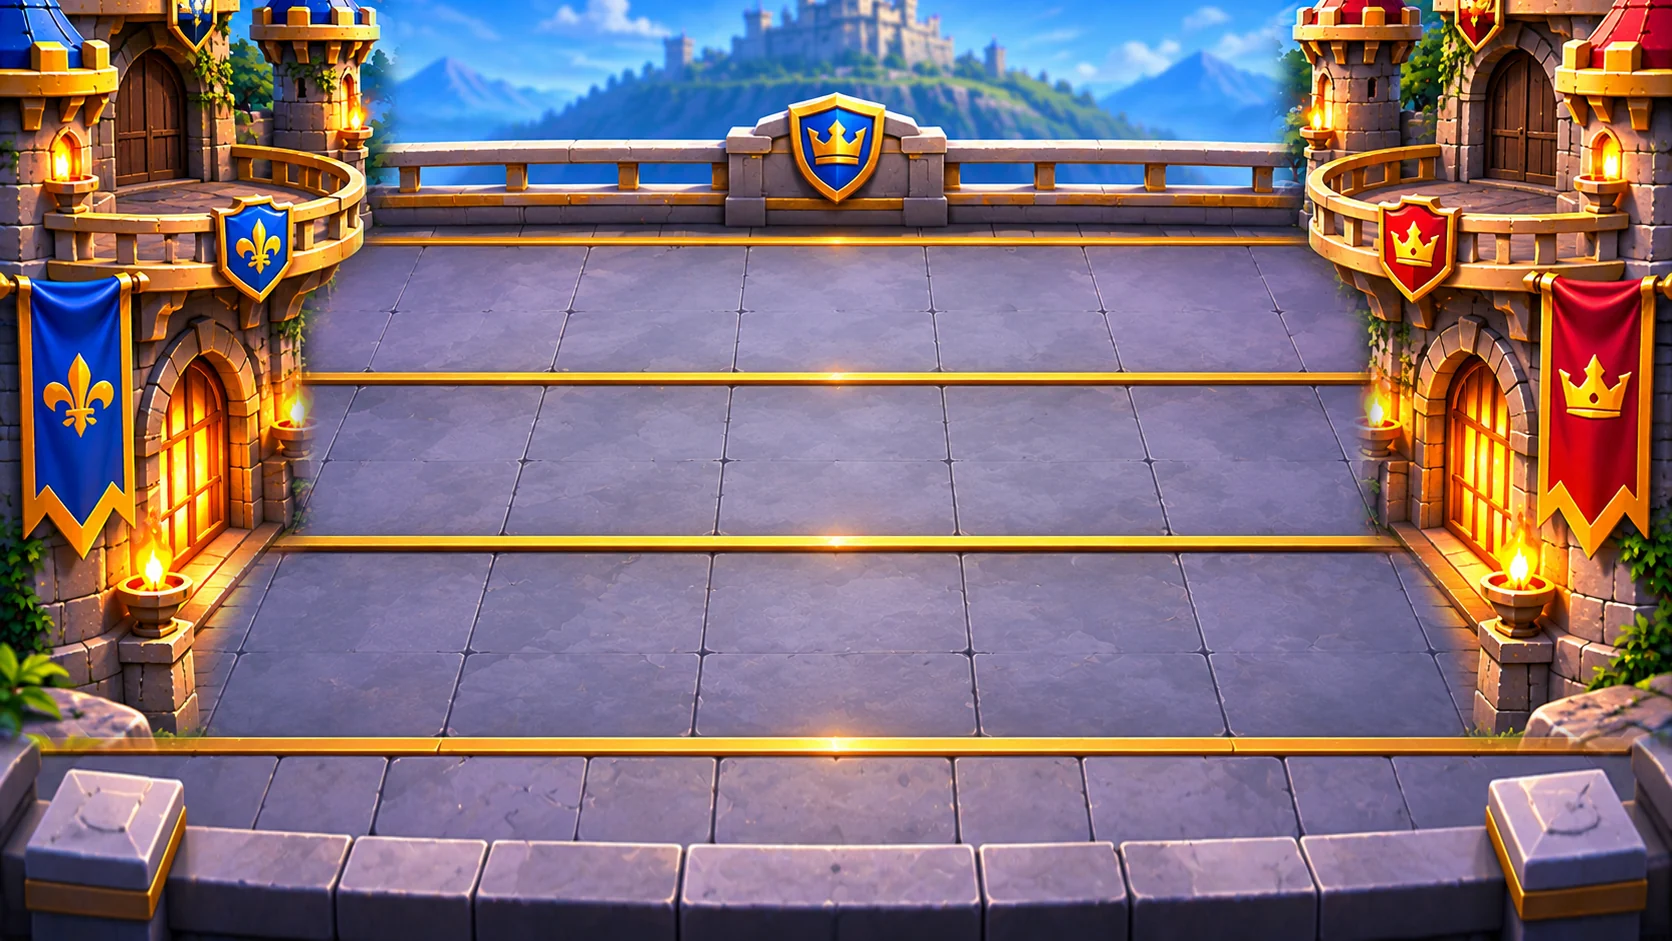
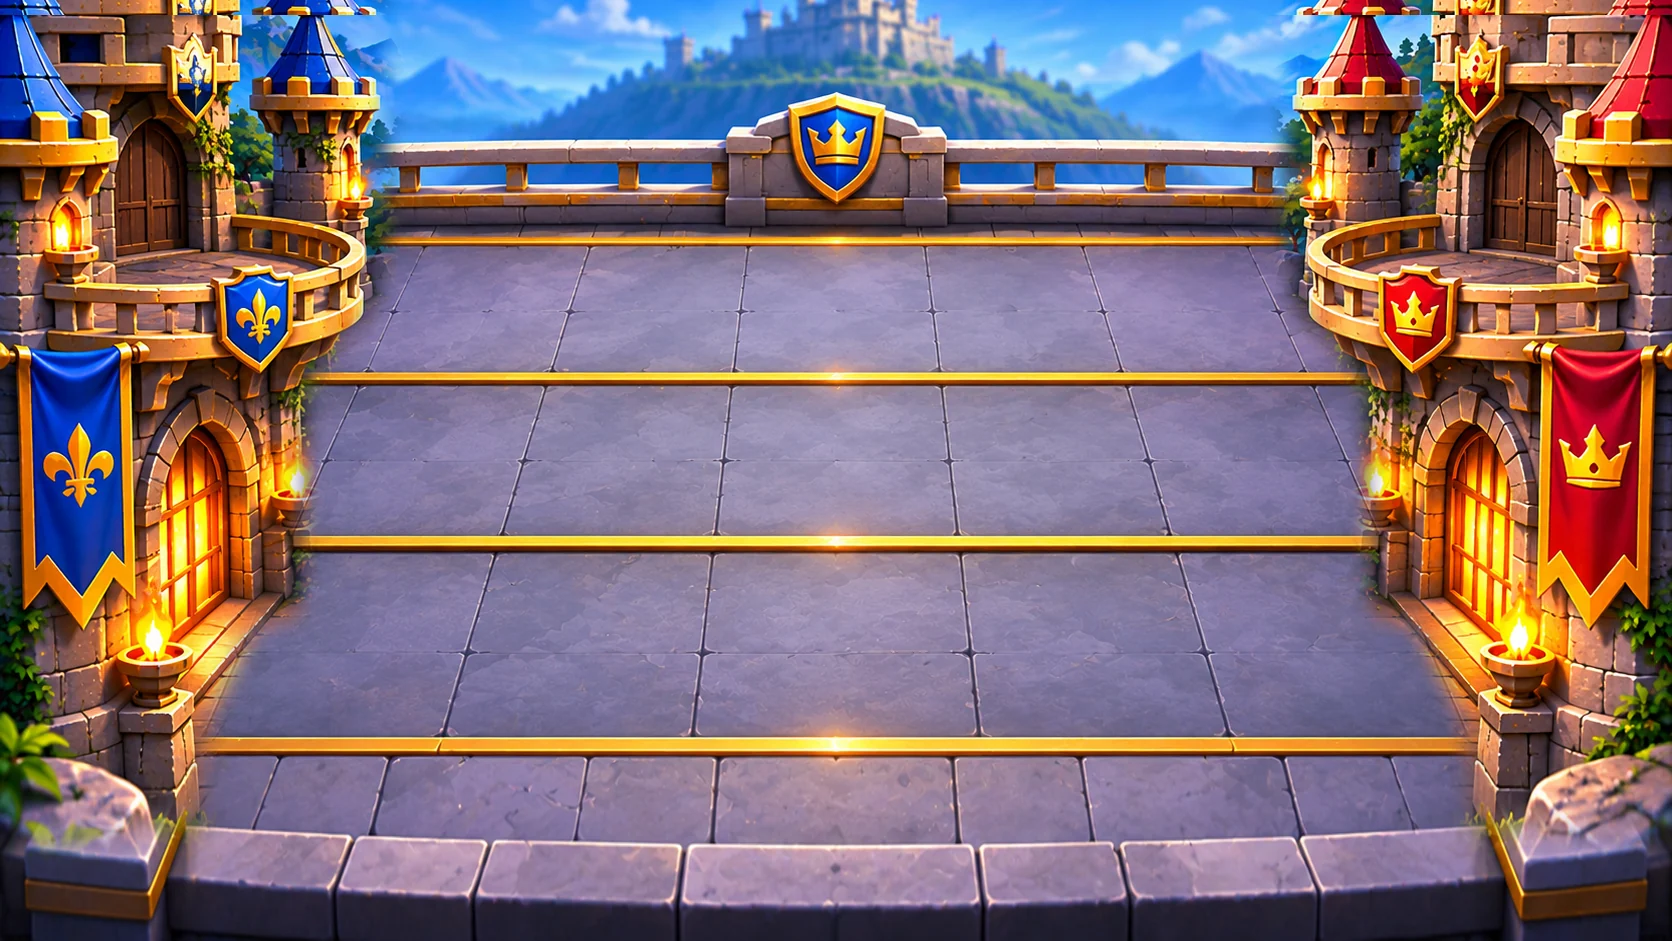
Invocação livre até a tropa mais avançada, mana acelerando, sacada mais baixa e poderes em círculo
- Soltar a carta onde quiser: limite = sua tropa mais avançada em qualquer rota
  (até o meio); com inimigo mais avançado na rota, a criatura nasce na frente dele
- A prévia transparente segue o dedo e mostra o ponto exato
- Mana enche cada vez mais rápido (+50% até 2 min) e em dobro no último minuto
- Castelos 70 px mais baixos (tools/compose-arena.py): Barão bem visível na sacada
- Poderes do Barão e do castelo em círculos lado a lado: cinza com o contorno
  carregando, coloridos e piscando quando prontos; segurar mostra a descrição
- 42 testes

Claude-Session: https://claude.ai/code/session_019FHBnxKyTVWzaJqkftQpoS

diff --git a/web/js/battle.js b/web/js/battle.js
@@ -91,22 +91,13 @@
         <div class="hb-score me" data-r="598,8,766,78"><b>👑</b><span id="crownMe">0</span></div>
         <div class="hb-timer" data-r="764,8,910,78" id="timer">3:00</div>
         <div class="hb-score foe" data-r="908,8,1078,78"><span id="crownFoe">0</span><b>👑</b></div>
-        <button class="hb-btn big tap" data-r="1088,14,1146,70" id="emoteBtn">😃</button>
-        <button class="hb-btn auto tap" data-r="1152,14,1238,70" id="autoBtn">${T('battle.auto')}</button>
-        <div class="hb-emotes tap hidden" data-r="900,82,1238,152" id="emotes">${['👍', '😃', '😠', '😱', '👑'].map((e) => `<button data-e="${e}">${e}</button>`).join('')}</div>
+        <button class="hb-orb tap" data-r="22,770,172,920" id="baronBtn"><img src="${BB.art.baronUrl(me.baron.id)}"></button>
+        <button class="hb-orb castle tap" data-r="182,770,332,920" id="castleBtn"><span>${CASTLE_ICON[me.castle.ability] || '🏰'}</span></button>
+        <div class="hb-tip hidden" data-r="22,580,560,760" id="tip"></div>
+        <button class="hb-btn big tap" data-r="1350,800,1440,880" id="emoteBtn">😃</button>
+        <button class="hb-btn auto tap" data-r="1452,800,1640,880" id="autoBtn">⚔ ${T('battle.auto')}</button>
+        <div class="hb-emotes tap hidden" data-r="1290,706,1640,790" id="emotes">${['👍', '😃', '😠', '😱', '👑'].map((e) => `<button data-e="${e}">${e}</button>`).join('')}</div>
         <div class="hb-x2 hidden" data-r="690,84,986,116" id="x2">${T('battle.double_energy')}</div>
-
-        <button class="hb-power tap" data-r="10,752,330,936" id="baronBtn">
-          <img class="hb-icon" data-r="18,762,118,862" src="${BB.art.baronUrl(me.baron.id)}">
-          <div class="hb-pt" data-r="126,764,324,796">${T('baron.' + me.baron.id + '.ability')}</div>
-          <div class="hb-pd" data-r="126,798,324,868">${T('baron.' + me.baron.id + '.desc')}</div>
-          <div class="hb-bar" data-r="22,880,318,914"><i id="baronFill"></i><span id="baronState"></span></div></button>
-        <button class="hb-power castle tap" data-r="1342,752,1662,936" id="castleBtn">
-          <div class="hb-icon castle" data-r="1350,762,1450,862">${CASTLE_ICON[me.castle.ability] || '🏰'}</div>
-          <div class="hb-ph" data-r="1458,764,1656,790">${T('battle.castle_power')}</div>
-          <div class="hb-pt" data-r="1458,790,1656,820">${T('castle.' + me.castle.id + '.ability')}</div>
-          <div class="hb-pd" data-r="1458,820,1656,872">${T('castle.' + me.castle.id + '.desc')}</div>
-          <div class="hb-bar" data-r="1354,880,1650,914"><i id="castleFill"></i><span id="castleState"></span></div></button>
 
         <div class="hb-tray" data-r="338,744,1334,941"></div>
         <button class="hb-trash tap" data-r="346,770,420,872" id="trash">🗑</button>
@@ -115,19 +106,19 @@
         <div class="hb-enum" data-r="352,880,418,941" id="energyNum">1</div>
         <div class="hb-max" data-r="428,903,700,925" id="energyMax"></div>
         <div class="hb-ebar" data-r="704,908,1192,932" id="ebar"><i id="energyFill"></i><u id="energyCap"></u>${'<b></b>'.repeat(9)}</div>
-        <div class="hb-bubble hidden" data-r="270,110,380,185" id="bubbleMe"></div>
-        <div class="hb-bubble foe hidden" data-r="1292,110,1402,185" id="bubbleFoe"></div>
+        <div class="hb-bubble hidden" data-r="290,150,400,225" id="bubbleMe"></div>
+        <div class="hb-bubble foe hidden" data-r="1272,150,1382,225" id="bubbleFoe"></div>
         <div class="hb-hint" data-r="436,120,1236,170" id="hint"></div>`;
       this.el = {
         hpMe: $('#hpMe'), hpMeT: $('#hpMeT'), hpFoe: $('#hpFoe'), hpFoeT: $('#hpFoeT'), timer: $('#timer'), x2: $('#x2'), offline: $('#offline'),
         crownMe: $('#crownMe'), crownFoe: $('#crownFoe'), ebar: $('#ebar'),
-        baronBtn: $('#baronBtn'), baronFill: $('#baronFill'), baronState: $('#baronState'), castleBtn: $('#castleBtn'), castleFill: $('#castleFill'),
-        castleState: $('#castleState'), slots: [0, 1, 2, 3, 4, 5].map((i) => $('#slot' + i)), drawFill: $('#drawFill'), pileTxt: $('#pileTxt'), energyMax: $('#energyMax'), energyCap: $('#energyCap'), trash: $('#trash'), energyFill: $('#energyFill'), energyNum: $('#energyNum'), hint: $('#hint'),
+        baronBtn: $('#baronBtn'), castleBtn: $('#castleBtn'), tip: $('#tip'),
+        slots: [0, 1, 2, 3, 4, 5].map((i) => $('#slot' + i)), drawFill: $('#drawFill'), pileTxt: $('#pileTxt'), energyMax: $('#energyMax'), energyCap: $('#energyCap'), trash: $('#trash'), energyFill: $('#energyFill'), energyNum: $('#energyNum'), hint: $('#hint'),
         autoBtn: $('#autoBtn'), emotes: $('#emotes'), bubbles: [$('#bubbleMe'), $('#bubbleFoe')],
       };
       $('#pauseBtn').onclick = () => this.pause();
-      this.el.baronBtn.onclick = () => this.powerPressed('baron');
-      this.el.castleBtn.onclick = () => this.powerPressed('castle');
+      this.bindOrb(this.el.baronBtn, 'baron');
+      this.bindOrb(this.el.castleBtn, 'castle');
       $('#emoteBtn').onclick = () => { BB.audio.play('click'); this.el.emotes.classList.toggle('hidden'); };
       this.el.emotes.querySelectorAll('[data-e]').forEach((b) => b.onclick = () => { this.el.emotes.classList.add('hidden'); this.emote(0, b.dataset.e); });
       this.el.autoBtn.onclick = () => this.toggleAuto();
@@ -219,12 +210,10 @@
       el.energyFill.style.width = (me.energy / m.B.maxEnergy) * 100 + '%';
       el.energyNum.textContent = Math.floor(me.energy);
       const bReady = m.baronReady(me), cReady = m.castleReady(me);
-      el.baronFill.style.width = m.baronProgress(me) * 100 + '%';
-      el.baronState.textContent = bReady ? T('battle.ready') : Math.floor(m.baronProgress(me) * 100) + '%';
+      el.baronBtn.style.setProperty('--p', m.baronProgress(me));
       el.baronBtn.classList.toggle('ready', bReady && !m.over);
       el.baronBtn.classList.toggle('armed', this.armed === 'baron');
-      el.castleFill.style.width = m.castleProgress(me) * 100 + '%';
-      el.castleState.textContent = cReady ? T('battle.ready') : Math.ceil(Math.max(0, me.castleCooldown)) + 's';
+      el.castleBtn.style.setProperty('--p', m.castleProgress(me));
       el.castleBtn.classList.toggle('ready', cReady && !m.over);
       el.castleBtn.classList.toggle('armed', this.armed === 'castle');
       this.refreshHand();
@@ -266,6 +255,31 @@
 
     disarm() { this.armed = null; this.sel = -1; this.dragging = false; this.hoverLane = -1; }
 
+    // Círculo de poder: toque rápido usa; segurar mostra a descrição (soltar depois de segurar não usa)
+    bindOrb(btn, kind) {
+      let timer = null, held = false;
+      const me = () => this.match.players[0];
+      const info = () => kind === 'baron'
+        ? { t: T('baron.' + me().baron.id + '.ability'), h: BB.baronName(me().baron.id), d: T('baron.' + me().baron.id + '.desc') }
+        : { t: T('castle.' + me().castle.id + '.ability'), h: T('battle.castle_power'), d: T('castle.' + me().castle.id + '.desc') };
+      btn.addEventListener('pointerdown', (e) => {
+        e.preventDefault(); held = false;
+        timer = setTimeout(() => {
+          held = true; const i = info();
+          this.el.tip.innerHTML = `<small>${esc(i.h)}</small><b>${esc(i.t)}</b><p>${esc(i.d)}</p>`;
+          this.el.tip.classList.remove('hidden');
+        }, 420);
+      });
+      const end = (use) => {
+        clearTimeout(timer);
+        if (held) { this.el.tip.classList.add('hidden'); held = false; return; }
+        if (use) this.powerPressed(kind);
+      };
+      btn.addEventListener('pointerup', () => end(true));
+      btn.addEventListener('pointerleave', () => end(false));
+      btn.addEventListener('pointercancel', () => end(false));
+    }
+
     discardSelected() {
       if (this.armed !== 'card' || this.sel < 0) { BB.ui.toast(T('battle.discard_hint')); return; }
       const me = this.match.players[0];
@@ -277,6 +291,7 @@
     pointerMove(e) {
       if (!this.armed) return;
       this.hoverLane = BB.renderer.laneAt(e.clientX, e.clientY);
+      this.hoverX = this.hoverLane >= 0 ? BB.renderer.simX(this.match, e.clientX, this.hoverLane) : null;
     }
 
     pointerUp(e) {
@@ -287,7 +302,7 @@
       if (e.target.closest && e.target.closest('.tap')) return; // soltou sobre a interface
       const lane = BB.renderer.laneAt(e.clientX, e.clientY);
       if (lane < 0) { if (!wasDrag) this.disarm(); return; }
-      if (this.armed === 'card') this.exec({ type: 'play', player: 0, hand: this.sel, cardId: this.match.players[0].deck.hand[this.sel], lane });
+      if (this.armed === 'card') this.exec({ type: 'play', player: 0, hand: this.sel, cardId: this.match.players[0].deck.hand[this.sel], lane, x: BB.renderer.simX(this.match, e.clientX, lane) });
       else this.exec({ type: this.armed, player: 0, lane });
     }
 
@@ -352,7 +367,7 @@
       let ghost = null;
       if (this.armed === 'card' && this.hoverLane >= 0 && this.sel >= 0) {
         const def = BB.content.cards[m.players[0].deck.hand[this.sel]];
-        if (def && !def.isSpell) ghost = { lane: this.hoverLane, x: m.deployX(0, this.hoverLane), def };
+        if (def && !def.isSpell) ghost = { lane: this.hoverLane, x: m.deployX(0, this.hoverLane, this.hoverX, def), def };
       }
       BB.renderer.draw(m, this.paused ? 0 : dt, { armed: !!this.armed, hoverLane: this.hoverLane, ghost });
       this.refreshHud();

diff --git a/web/js/sim.js b/web/js/sim.js
@@ -143,12 +143,26 @@
     }
     get handMax() { return this.B.handMax || 6; }
     // ponto de invocação: base do castelo, ou a posição da sua tropa mais avançada na rota (até o meio do campo)
-    deployX(owner, lane) {
+    // Ponto de invocação. O jogador escolhe onde soltar (wantX); o limite de avanço é a sua tropa mais
+    // avançada em QUALQUER rota (até o meio do campo). Se houver inimigo mais avançado na rota, a tropa
+    // nasce na frente dele (do lado do seu castelo). Sem wantX: o ponto mais avançado permitido.
+    deployLimit(owner) {
       const base = this.spawnX(owner), dir = dirOf(owner);
-      const f = this.frontUnit(owner, lane);
-      if (f === null) return base;
-      const limit = this.L / 2;
-      return dir > 0 ? Math.max(base, Math.min(f, limit)) : Math.min(base, Math.max(f, limit));
+      let adv = base * dir;
+      for (const u of this.units) if (u.hp > 0 && u.owner === owner) adv = Math.max(adv, u.x * dir);
+      return dir * Math.min(adv, (this.L / 2) * dir);
+    }
+    deployX(owner, lane, wantX, def) {
+      const base = this.spawnX(owner), dir = dirOf(owner), limit = this.deployLimit(owner);
+      let x = typeof wantX === 'number' && isFinite(wantX) ? wantX : limit;
+      x = dir > 0 ? Math.max(base, Math.min(x, limit)) : Math.min(base, Math.max(x, limit));
+      const enemy = this.frontUnit(1 - owner, lane); // inimigo mais avançado (mais perto do seu castelo)
+      if (enemy !== null) {
+        const gap = this.bodyR(def || { hp: 600 }) + 3;
+        const before = enemy - dir * gap;
+        if (dir * (x - before) > 0) x = dir > 0 ? Math.max(base, before) : Math.min(base, before);
+      }
+      return x;
     }
     // raio de corpo (unidades da rota): tropas param de frente para o inimigo sem se atravessarem
     bodyR(def) { return def.flying ? 3 : 2.2 + Math.min(1, (def.hp || 0) / 1800) * 1.6; }
@@ -205,7 +219,7 @@
       const r = this.validate(c);
       if (r !== 'Ok') return r;
       const p = this.players[c.player];
-      if (c.type === 'play') this.playCard(p, c.hand, c.lane);
+      if (c.type === 'play') this.playCard(p, c.hand, c.lane, c.x);
       else if (c.type === 'discard') { const id = p.deck.play(c.hand); this.emit('CardDiscarded', p.index, { id }); }
       else if (c.type === 'baron') this.useBaron(p, c.lane);
       else this.useCastle(p, c.lane);
@@ -215,7 +229,7 @@
     surrender(player) { if (!this.over) this.end(1 - player, 'Surrender'); }
     forfeitByDisconnect(player) { if (!this.over) this.end(1 - player, 'Disconnect'); }
 
-    playCard(p, handIndex, lane) {
+    playCard(p, handIndex, lane, wantX) {
       const id = p.deck.play(handIndex);
       const def = this.content.card(id);
       p.energy -= def.cost;
@@ -224,7 +238,7 @@
       const level = this.level(p, id);
       if (def.isSpell) { p.stats.spellsCast++; this.castSpell(p, def, lane, this.content.levelMult(level), level); }
       else {
-        const x = this.deployX(p.index, lane);
+        const x = this.deployX(p.index, lane, wantX, def);
         for (let i = 0; i < def.count; i++) {
           this.spawnUnit(p.index, def, lane, x - dirOf(p.index) * 1.4 * i, level);
           p.stats.unitsDeployed++;
@@ -263,7 +277,9 @@
       const dt = this.dt, B = this.B;
       if (this.doubleEnergy && !this.doubleAnnounced) { this.doubleAnnounced = true; this.emit('DoubleEnergy', -1, {}); }
       for (const p of this.players) {
-        const rate = B.energyPerSecond * (this.doubleEnergy ? 2 : 1);
+        // a mana enche cada vez mais rápido (até +50% aos 2 min) e em dobro no último minuto
+        const ramp = 1 + (B.energyRamp || 0) * Math.min(1, this.time / Math.max(1, B.matchSeconds - B.doubleEnergyLastSeconds));
+        const rate = B.energyPerSecond * ramp * (this.doubleEnergy ? 2 : 1);
         p.energy = Math.min(this.energyCap, p.energy + rate * dt);
         if (p.deck.hand.length < this.handMax) {
           p.drawTimer += dt;

diff --git a/web/css/style.css b/web/css/style.css
@@ -240,6 +240,21 @@ img { -webkit-user-drag: none; pointer-events: none; }
 .hb-pile.full .hb-pilebar i { background: #ff6a6a; }
 .hb-max { font-size: .62em; font-weight: 900; color: #9fe0ff; text-shadow: 0 .08em 0 #000; display: flex; align-items: center; }
 .hb-ebar u { position: absolute; top: -.1em; bottom: -.1em; width: .18em; margin-left: -.09em; background: #fff; box-shadow: 0 0 .4em #fff; text-decoration: none; transition: left .3s; }
+/* poderes em círculo: cinza enquanto carrega (contorno enche), colorido e piscando quando pronto */
+.hb-orb { --p: 0; border-radius: 50%; padding: .32em; background: conic-gradient(#ffd34d calc(var(--p) * 1turn), rgba(30,32,44,.92) 0);
+  box-shadow: 0 0 0 .1em #5a4410, 0 .25em .5em rgba(0,0,0,.6); }
+.hb-orb img, .hb-orb span { display: grid; place-items: center; width: 100%; height: 100%; border-radius: 50%; object-fit: cover; border: .12em solid #1b1e2a;
+  filter: grayscale(1) brightness(.7); transition: filter .25s; }
+.hb-orb span { font-size: 2.6em; background: radial-gradient(circle at 40% 30%, #3f78e0, #0d2160); }
+.hb-orb.ready { background: conic-gradient(#fff2a8, #ffd34d, #ffb21e, #fff2a8); animation: orbBlink .7s infinite alternate; }
+.hb-orb.ready img, .hb-orb.ready span { filter: none; }
+.hb-orb.armed { animation: none; box-shadow: 0 0 0 .14em #fff, 0 0 1.4em #ffd34d; }
+.hb-orb.fire { animation: hbFire .6s ease-out; }
+@keyframes orbBlink { from { box-shadow: 0 0 0 .1em #5a4410, 0 0 .2em #ffd34d; filter: brightness(1); } to { box-shadow: 0 0 0 .1em #ffd34d, 0 0 1.3em #ffd34d; filter: brightness(1.25); } }
+.hb-tip { padding: .6em .8em; border-radius: .6em; background: rgba(8,14,36,.96); border: .12em solid var(--gold2); box-shadow: 0 .3em .8em rgba(0,0,0,.6); pointer-events: none; }
+.hb-tip small { display: block; font-size: .6em; color: var(--gold1); text-transform: uppercase; font-weight: 900; }
+.hb-tip b { display: block; font-size: 1em; margin: .1em 0 .25em; }
+.hb-tip p { margin: 0; font-size: .72em; line-height: 1.3; color: #dfe6ff; }
 .end-title { position: absolute; left: 0; right: 0; top: 34%; text-align: center; font-size: 7rem; animation: pop .7s cubic-bezier(.2,1.6,.4,1); }
 
 /* ---------- sobreposições ---------- */

diff --git a/tools/sim-test.js b/tools/sim-test.js
@@ -81,12 +81,23 @@ test('energia começa em 1 e o máximo cresce com o tempo até 10', () => {
   run(m, 20); assert(m.energyCap > content.balance.maxEnergyStart); assert(m.players[0].energy <= m.energyCap + 1e-9);
   run(m, 80); eq(m.energyCap, 10);
 });
-test('nova tropa nasce na posição da tropa mais avançada da rota, até o meio', () => {
+test('invocação: até a tropa mais avançada em qualquer rota (até o meio); na frente de inimigo avançado', () => {
   const m = newMatch(); const k = content.card('royal_knight');
   eq(m.deployX(0, 1), m.spawnX(0));
-  m.spawnUnit(0, k, 1, 30, 1); near(m.deployX(0, 1), 30, 1e-9);
-  m.spawnUnit(0, k, 1, 80, 1); near(m.deployX(0, 1), m.L / 2, 1e-9);
-  eq(m.deployX(0, 2), m.spawnX(0));
+  near(m.deployX(0, 1, 40, k), m.spawnX(0), 1e-9);              // sem tropas: só na base
+  m.spawnUnit(0, k, 2, 30, 1);                                   // tropa avançada em outra rota
+  near(m.deployX(0, 1, 40, k), 30, 1e-9);                        // vale para as 3 rotas
+  near(m.deployX(0, 0, 20, k), 20, 1e-9);                        // pode soltar antes do limite
+  m.spawnUnit(0, k, 2, 80, 1); near(m.deployX(0, 1, 90, k), m.L / 2, 1e-9); // até o meio
+  m.spawnUnit(1, k, 1, 25, 1);                                   // inimigo avançado na rota 1
+  near(m.deployX(0, 1, 45, k), 25 - m.bodyR(k) - 3, 1e-9);       // entra na frente dele
+  m.players[0].energy = 10; const h = m.players[0].deck.hand; h[0] = 'royal_knight';
+  eq(m.execute({ type: 'play', player: 0, hand: 0, cardId: 'royal_knight', lane: 0, x: 22 }), 'Ok');
+  near(m.units[m.units.length - 1].x, 22, 1e-9);
+});
+test('a mana enche mais rápido com o tempo', () => {
+  const a = newMatch(); a.players[0].energy = 0; a.step(); const e1 = a.players[0].energy;
+  const b = newMatch(); run(b, 100); b.players[0].energy = 0; b.step(); assert(b.players[0].energy > e1 * 1.3);
 });
 test('tropas param de frente, sem atravessar o inimigo', () => {
   const m = newMatch(); const k = content.card('royal_knight');

diff --git a/web/js/render.js b/web/js/render.js
@@ -14,8 +14,8 @@
       { y: 472, y0: 380, y1: 538, xL: 345, xR: 1327, k: 1 },
       { y: 652, y0: 545, y1: 742, xL: 292, xR: 1380, k: 1 },
     ],
-    castle: [{ x0: 0, y0: 0, x1: 360, y1: 700, gx: 190, gy: 470 }, { x0: 1312, y0: 0, x1: 1672, y1: 700, gx: 1482, gy: 470 }],
-    baron: [{ x: 226, y: 207, r: 56 }, { x: 1446, y: 207, r: 56 }],
+    castle: [{ x0: 0, y0: 0, x1: 360, y1: 760, gx: 190, gy: 540 }, { x0: 1312, y0: 0, x1: 1672, y1: 760, gx: 1482, gy: 540 }],
+    baron: [{ x: 226, y: 277, r: 56 }, { x: 1446, y: 277, r: 56 }],
     unitR: 46,
   };
   BB.ARENA = ARENA;
@@ -56,6 +56,12 @@
     laneX(m, x, i) {
       const l = ARENA.lanes[i], f0 = m.castleFront(0), f1 = m.castleFront(1);
       return l.xL + ((x - f0) / (f1 - f0)) * (l.xR - l.xL);
+    }
+    // posição na rota (unidades da simulação) a partir de um ponto da tela
+    simX(m, px, lane) {
+      const l = ARENA.lanes[lane], f0 = m.castleFront(0), f1 = m.castleFront(1);
+      const ix = (px - this.ox) / this.s;
+      return f0 + ((ix - l.xL) / (l.xR - l.xL)) * (f1 - f0);
     }
     laneAt(px, py) {
       const p = this.toImage(px, py);

diff --git a/web/js/data.js b/web/js/data.js
@@ -9,6 +9,7 @@ BB.CONTENT = {
   "startEnergy": 1,
   "maxEnergyStart": 3,
   "maxEnergyGrowEvery": 8,
+  "energyRamp": 0.5,
   "maxEnergy": 10,
   "energyPerSecond": 0.36,
   "doubleEnergyLastSeconds": 60,

diff --git a/tools/compose-arena.py b/tools/compose-arena.py
@@ -1,0 +1,22 @@
+#!/usr/bin/env python3
+"""Monta art/source/arena.png: base limpa (rotas douradas) + castelos com sacada por cima.
+CASTLE_DY desloca os castelos para baixo (sacada mais baixa = Barão mais visível)."""
+import os
+from PIL import Image, ImageDraw, ImageFilter
+ROOT = os.path.dirname(os.path.dirname(os.path.abspath(__file__)))
+SRC = os.path.join(ROOT, 'art', 'source')
+CASTLE_DY = 70
+W, H = 1672, 941
+base = Image.open(os.path.join(SRC, 'arena_clean_base.png')).convert('RGB').resize((W, H), Image.LANCZOS)
+old = Image.open(os.path.join(SRC, 'arena_v3_castles.png')).convert('RGB')
+m = Image.new('L', (W, H), 0)
+ImageDraw.Draw(m).polygon([(0, 0), (385, 0), (385, 250), (372, 300), (330, 340), (305, 370), (300, 600), (255, 610), (210, 700), (200, 790), (0, 800)], fill=255)
+m = m.filter(ImageFilter.GaussianBlur(10))
+shifted = Image.new('RGB', (W, H)); shifted.paste(old, (0, CASTLE_DY))
+# topo vazio após o deslocamento: repete a parte de cima do castelo
+shifted.paste(old.crop((0, 0, W, CASTLE_DY)).resize((W, CASTLE_DY)), (0, 0))
+ms = Image.new('L', (W, H), 0); ms.paste(m, (0, CASTLE_DY)); ms.paste(m.crop((0, 0, W, CASTLE_DY)), (0, 0))
+out = base.copy()
+out.paste(shifted, (0, 0), ms); out.paste(shifted, (0, 0), ms.transpose(Image.FLIP_LEFT_RIGHT))
+out.save(os.path.join(SRC, 'arena.png'))
+print('arena montada, castelos +%d px' % CASTLE_DY)

diff --git a/docs/GAME_DESIGN.md b/docs/GAME_DESIGN.md
@@ -3,9 +3,9 @@
 Todos os valores ficam em `web/js/data.js` e podem ser ajustados sem mexer na lógica.
 
 ## Partida
-- **Energia (mana):** começa em 1. O máximo começa em 3 e sobe 1 a cada 8 s, até 10. Cartas sem energia ficam cinza.
+- **Energia (mana):** começa em 1. O máximo começa em 3 e sobe 1 a cada 8 s, até 10. A mana enche cada vez mais rápido (até +50% aos 2 min) e em dobro no último minuto. Cartas sem energia ficam cinza.
 - **Mão:** começa com 4 cartas e compra 1 automaticamente a cada 4 s, até 6 (mão cheia). Para liberar espaço, arraste uma carta até a lixeira; ela volta para o fim do baralho.
-- **Invocação:** a criatura nasce no castelo ou, se você já tem tropa naquela rota, ao lado da sua tropa mais avançada (até o meio do campo).
+- **Invocação:** arraste e solte onde quiser, entre o seu castelo e o limite de avanço. O limite é a sua tropa mais avançada em qualquer uma das 3 rotas, até o meio do campo. Se houver um inimigo mais avançado na rota, a criatura nasce na frente dele.
 - **Combate:** cada criatura tem um corpo; as tropas param de frente para o inimigo, sem se atravessarem.
 
 - Duração: 180 s · energia inicial 5 · máximo 10 · regeneração 0.36/s (dobra nos últimos 60 s)
